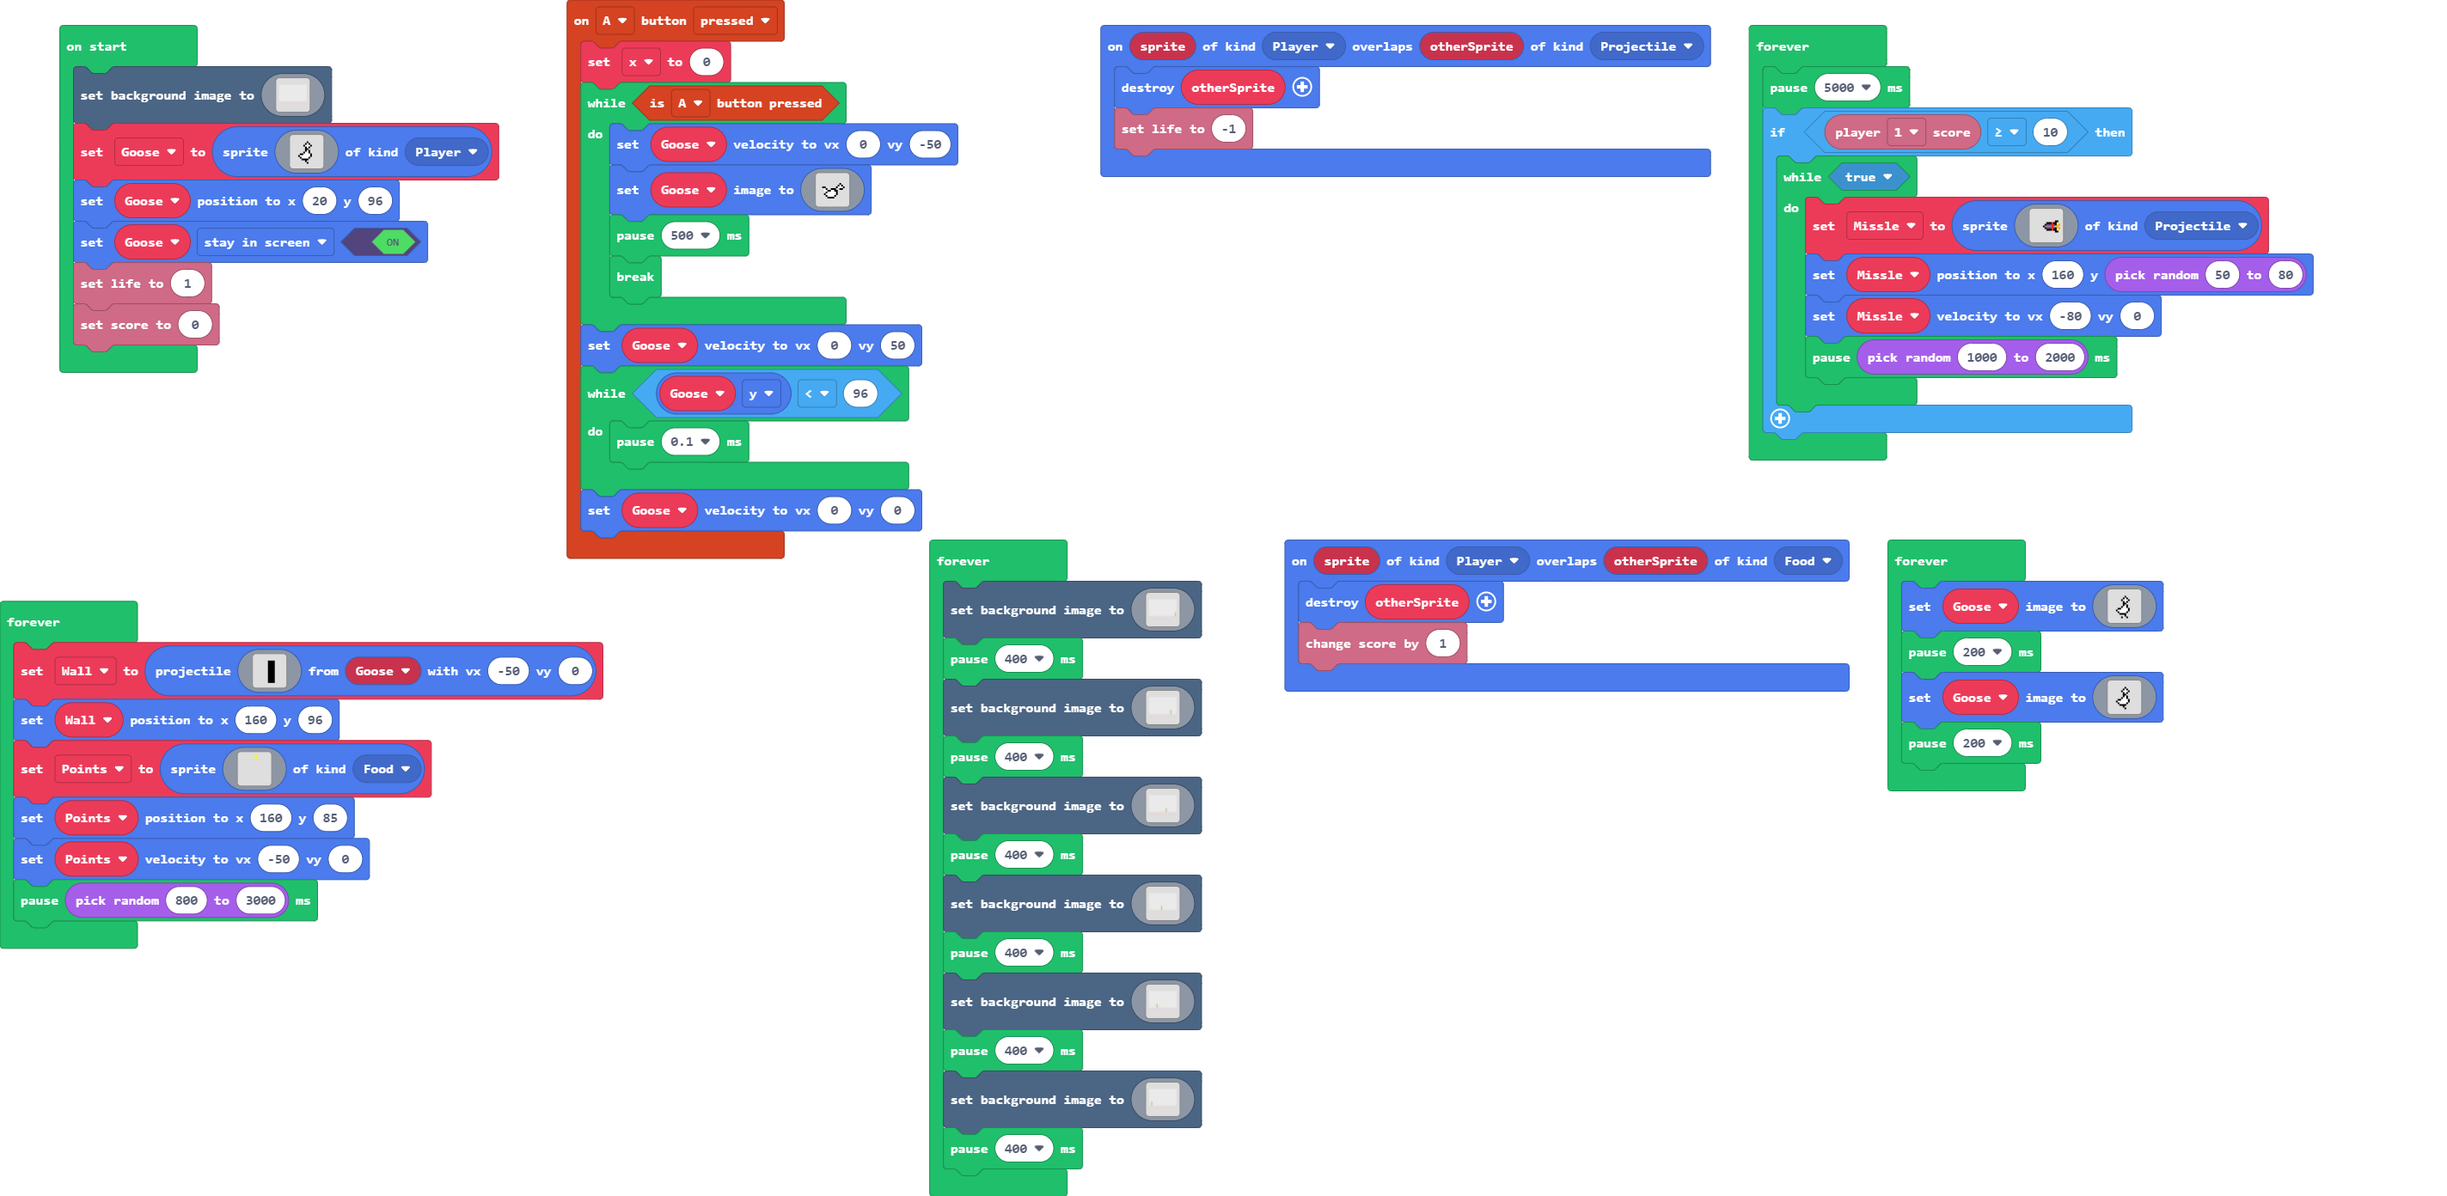
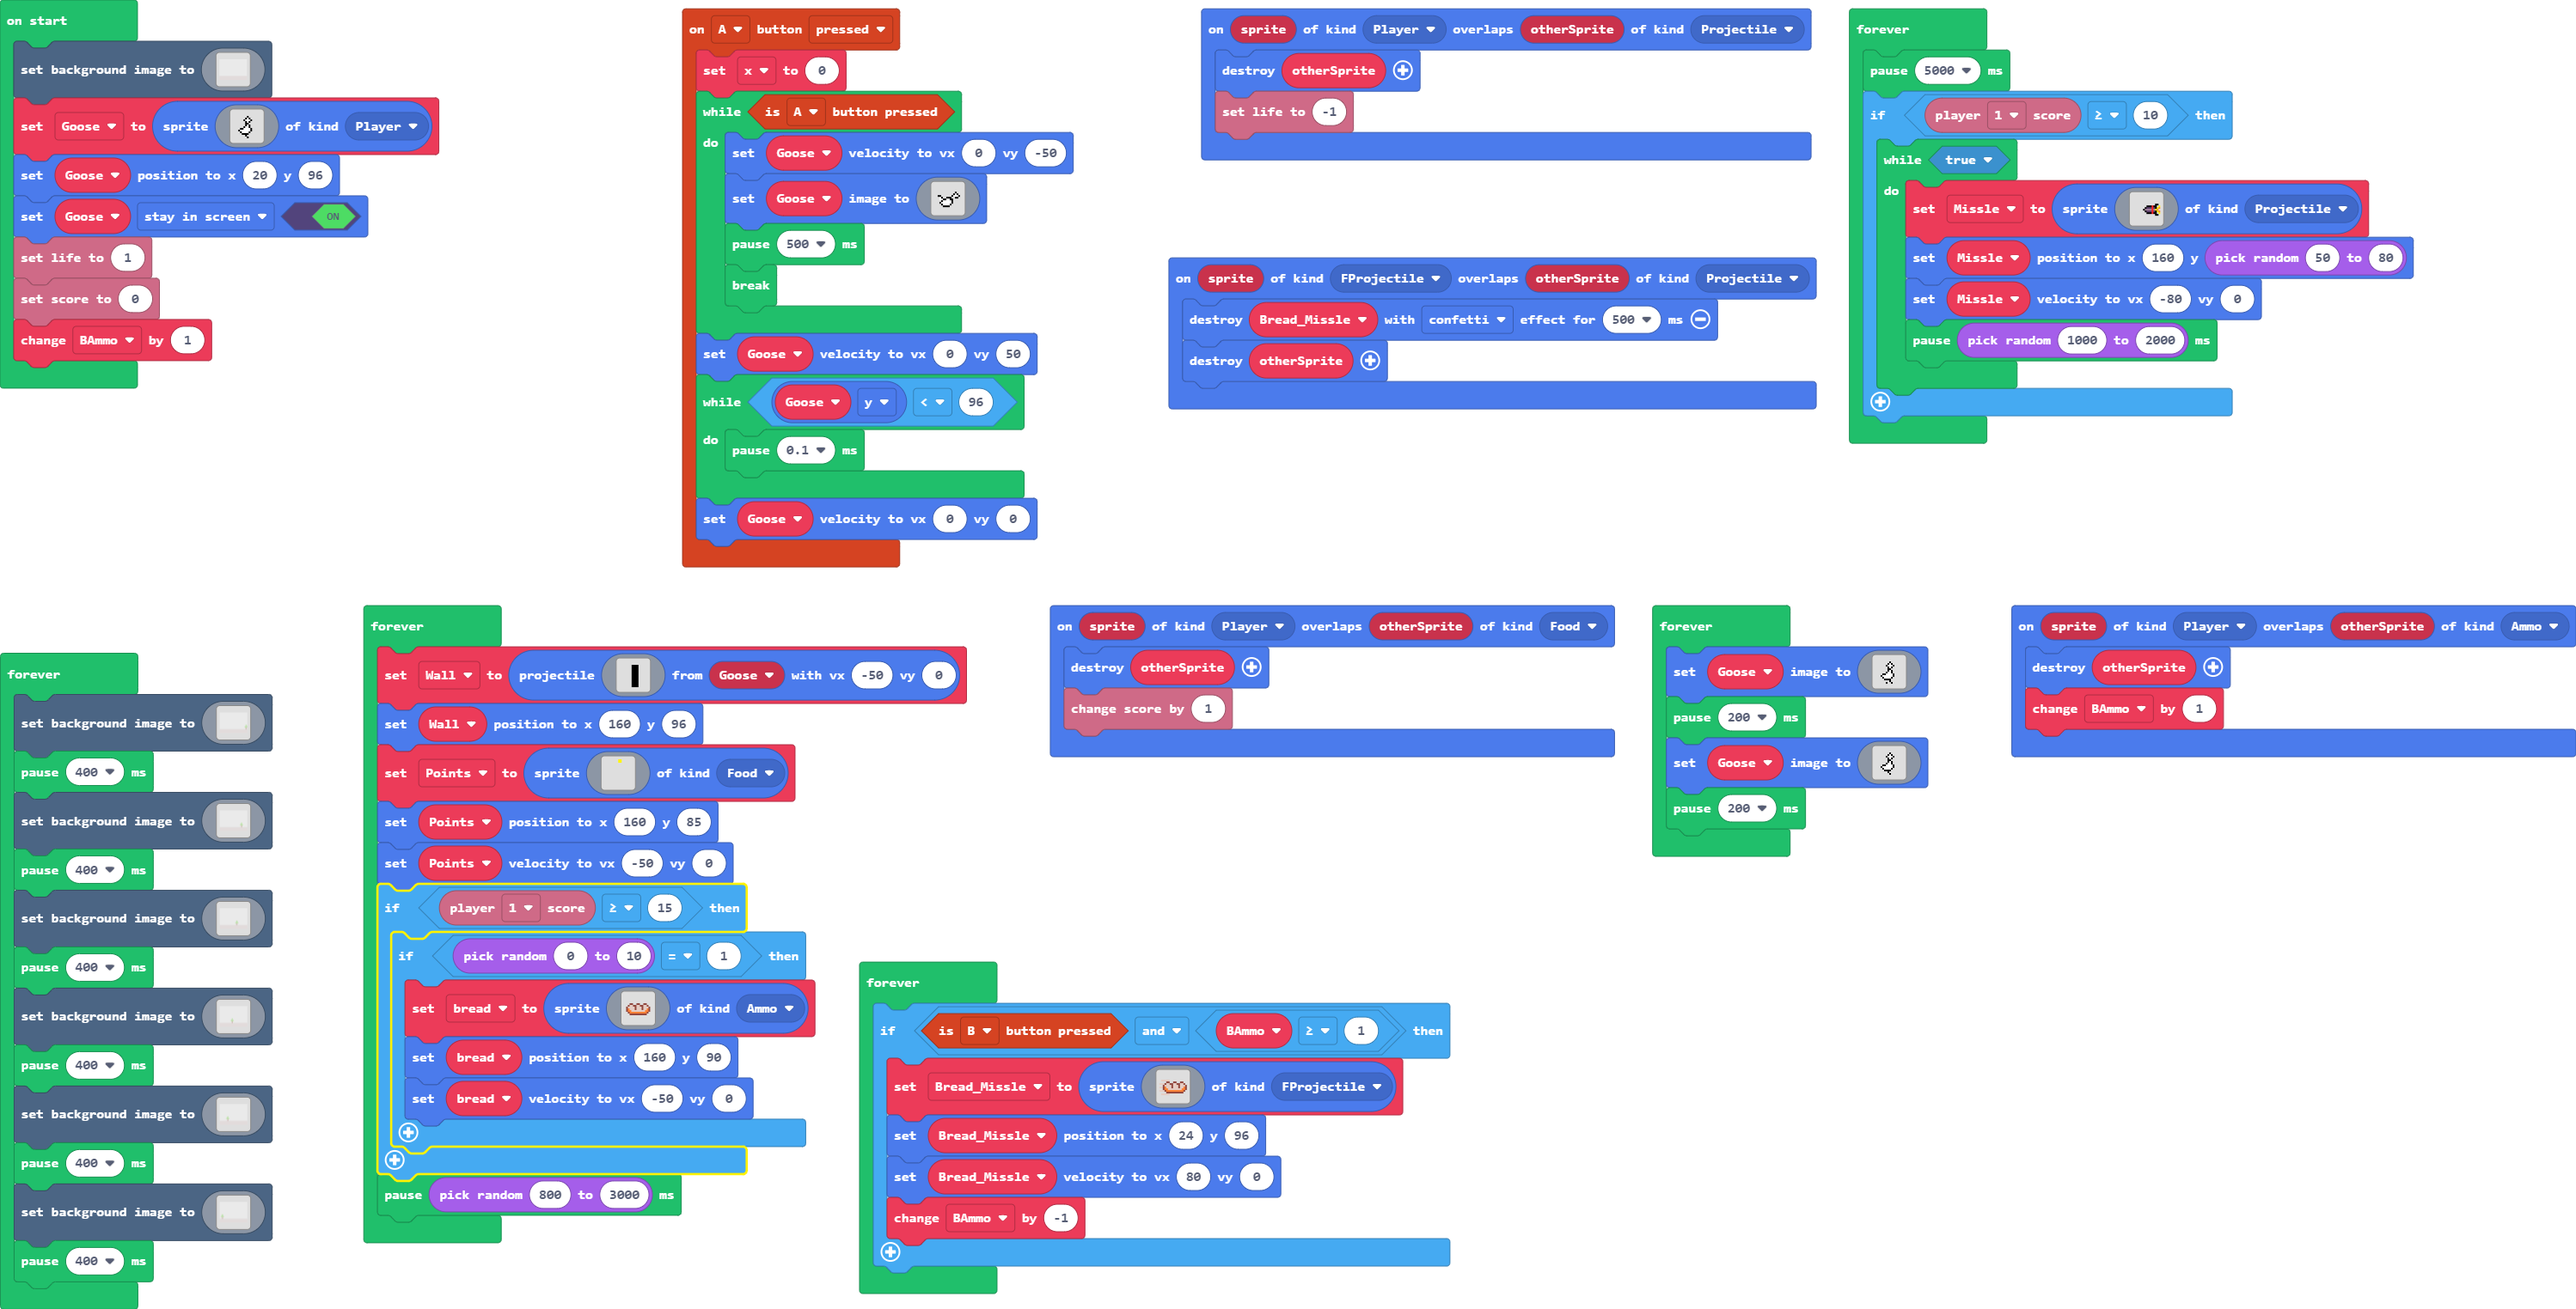
Update main.blocks, main.ts

diff --git a/main.ts b/main.ts
@@ -1,3 +1,11 @@
+namespace SpriteKind {
+    export const Ammo = SpriteKind.create()
+    export const FProjectile = SpriteKind.create()
+}
+sprites.onOverlap(SpriteKind.FProjectile, SpriteKind.Projectile, function (sprite, otherSprite) {
+    Bread_Missle.destroy(effects.confetti, 500)
+    otherSprite.destroy()
+})
 controller.A.onEvent(ControllerButtonEvent.Pressed, function () {
     x = 0
     while (controller.A.isPressed()) {
@@ -29,6 +37,10 @@ controller.A.onEvent(ControllerButtonEvent.Pressed, function () {
     }
     Goose.setVelocity(0, 0)
 })
+sprites.onOverlap(SpriteKind.Player, SpriteKind.Ammo, function (sprite, otherSprite) {
+    otherSprite.destroy()
+    BAmmo += 1
+})
 sprites.onOverlap(SpriteKind.Player, SpriteKind.Projectile, function (sprite, otherSprite) {
     otherSprite.destroy()
     info.setLife(-1)
@@ -37,10 +49,13 @@ sprites.onOverlap(SpriteKind.Player, SpriteKind.Food, function (sprite, otherSpr
     otherSprite.destroy()
     info.changeScoreBy(1)
 })
+let bread: Sprite = null
 let Points: Sprite = null
 let Wall: Sprite = null
 let Missle: Sprite = null
 let x = 0
+let Bread_Missle: Sprite = null
+let BAmmo = 0
 let Goose: Sprite = null
 scene.setBackgroundImage(img`
     1111111111111111111111111111111111111111111111111111111111111111111111111111111111111111111111111111111111111111111111111111111111111111111111111111111111111111
@@ -186,6 +201,7 @@ Goose.setPosition(20, 96)
 Goose.setFlag(SpriteFlag.StayInScreen, true)
 info.setLife(1)
 info.setScore(0)
+BAmmo += 1
 forever(function () {
     pause(5000)
     if (info.player1.score() >= 10) {
@@ -213,6 +229,72 @@ forever(function () {
             pause(randint(1000, 2000))
         }
     }
+})
+forever(function () {
+    Wall = sprites.createProjectileFromSprite(img`
+        . . . . . . . . . . . . . . . . 
+        . . . . . . . . . . . . . . . . 
+        . . . . . . . f f f f . . . . . 
+        . . . . . . . f f f f . . . . . 
+        . . . . . . . f f f f . . . . . 
+        . . . . . . . f f f f . . . . . 
+        . . . . . . . f f f f . . . . . 
+        . . . . . . . f f f f . . . . . 
+        . . . . . . . f f f f . . . . . 
+        . . . . . . . f f f f . . . . . 
+        . . . . . . . f f f f . . . . . 
+        . . . . . . . f f f f . . . . . 
+        . . . . . . . f f f f . . . . . 
+        . . . . . . . f f f f . . . . . 
+        . . . . . . . f f f f . . . . . 
+        . . . . . . . . . . . . . . . . 
+        `, Goose, -50, 0)
+    Wall.setPosition(160, 96)
+    Points = sprites.create(img`
+        . . . . . . . . 5 5 . . . . . . 
+        . . . . . . . . 5 5 . . . . . . 
+        . . . . . . . . . . . . . . . . 
+        . . . . . . . . . . . . . . . . 
+        . . . . . . . . . . . . . . . . 
+        . . . . . . . . . . . . . . . . 
+        . . . . . . . . . . . . . . . . 
+        . . . . . . . . . . . . . . . . 
+        . . . . . . . . . . . . . . . . 
+        . . . . . . . . . . . . . . . . 
+        . . . . . . . . . . . . . . . . 
+        . . . . . . . . . . . . . . . . 
+        . . . . . . . . . . . . . . . . 
+        . . . . . . . . . . . . . . . . 
+        . . . . . . . . . . . . . . . . 
+        . . . . . . . . . . . . . . . . 
+        `, SpriteKind.Food)
+    Points.setPosition(160, 85)
+    Points.setVelocity(-50, 0)
+    if (info.player1.score() >= 15) {
+        if (randint(0, 10) == 1) {
+            bread = sprites.create(img`
+                . . . . . . . . . . . . . . . . 
+                . . . . . . . . . . . . . . . . 
+                . . . . . . . . . . . . . . . . 
+                . . . . . . . . . . . . . . . . 
+                . . . . . . . . . . . . . . . . 
+                . . . e e . . e e . . e e . . . 
+                . . e d d e e d d e e d d e . . 
+                . e d d d d e d d d e d d d e . 
+                . e 4 d d d e d d d e d d 4 e . 
+                . e 4 4 d d d d d d d d 4 4 e . 
+                . . e 4 4 4 4 4 4 4 4 4 4 e . . 
+                . . . e e e e e e e e e e . . . 
+                . . . . . . . . . . . . . . . . 
+                . . . . . . . . . . . . . . . . 
+                . . . . . . . . . . . . . . . . 
+                . . . . . . . . . . . . . . . . 
+                `, SpriteKind.Ammo)
+            bread.setPosition(160, 90)
+            bread.setVelocity(-50, 0)
+        }
+    }
+    pause(randint(800, 3000))
 })
 forever(function () {
     scene.setBackgroundImage(img`
@@ -955,48 +1037,6 @@ forever(function () {
     pause(400)
 })
 forever(function () {
-    Wall = sprites.createProjectileFromSprite(img`
-        . . . . . . . . . . . . . . . . 
-        . . . . . . . . . . . . . . . . 
-        . . . . . . . f f f f . . . . . 
-        . . . . . . . f f f f . . . . . 
-        . . . . . . . f f f f . . . . . 
-        . . . . . . . f f f f . . . . . 
-        . . . . . . . f f f f . . . . . 
-        . . . . . . . f f f f . . . . . 
-        . . . . . . . f f f f . . . . . 
-        . . . . . . . f f f f . . . . . 
-        . . . . . . . f f f f . . . . . 
-        . . . . . . . f f f f . . . . . 
-        . . . . . . . f f f f . . . . . 
-        . . . . . . . f f f f . . . . . 
-        . . . . . . . f f f f . . . . . 
-        . . . . . . . . . . . . . . . . 
-        `, Goose, -50, 0)
-    Wall.setPosition(160, 96)
-    Points = sprites.create(img`
-        . . . . . . . . 5 5 . . . . . . 
-        . . . . . . . . 5 5 . . . . . . 
-        . . . . . . . . . . . . . . . . 
-        . . . . . . . . . . . . . . . . 
-        . . . . . . . . . . . . . . . . 
-        . . . . . . . . . . . . . . . . 
-        . . . . . . . . . . . . . . . . 
-        . . . . . . . . . . . . . . . . 
-        . . . . . . . . . . . . . . . . 
-        . . . . . . . . . . . . . . . . 
-        . . . . . . . . . . . . . . . . 
-        . . . . . . . . . . . . . . . . 
-        . . . . . . . . . . . . . . . . 
-        . . . . . . . . . . . . . . . . 
-        . . . . . . . . . . . . . . . . 
-        . . . . . . . . . . . . . . . . 
-        `, SpriteKind.Food)
-    Points.setPosition(160, 85)
-    Points.setVelocity(-50, 0)
-    pause(randint(800, 3000))
-})
-forever(function () {
     Goose.setImage(img`
         . . . . . . . . . . . . . . . . 
         . . . . . . . . . . . . . . . . 
@@ -1035,4 +1075,29 @@ forever(function () {
         . . . . . . . . . . . . . . . . 
         `)
     pause(200)
+})
+forever(function () {
+    if (controller.B.isPressed() && BAmmo >= 1) {
+        Bread_Missle = sprites.create(img`
+            . . . . . . . . . . . . . . . . 
+            . . . . . . . . . . . . . . . . 
+            . . . . . . . . . . . . . . . . 
+            . . . . . . . . . . . . . . . . 
+            . d d d d d . . . . . . . . . . 
+            . . . . e e . . e e . . e e . . 
+            d d d e d d e e d d e e d d e . 
+            . . e d d d d e d d d e d d d e 
+            d d e 4 d d d e d d d e d d 4 e 
+            . . e 4 4 d d d d d d d d 4 4 e 
+            d d d e 4 4 4 4 4 4 4 4 4 4 e . 
+            . . . . e e e e e e e e e e . . 
+            . d d d d d . . . . . . . . . . 
+            . . . . . . . . . . . . . . . . 
+            . . . . . . . . . . . . . . . . 
+            . . . . . . . . . . . . . . . . 
+            `, SpriteKind.FProjectile)
+        Bread_Missle.setPosition(24, 96)
+        Bread_Missle.setVelocity(80, 0)
+        BAmmo += -1
+    }
 })
